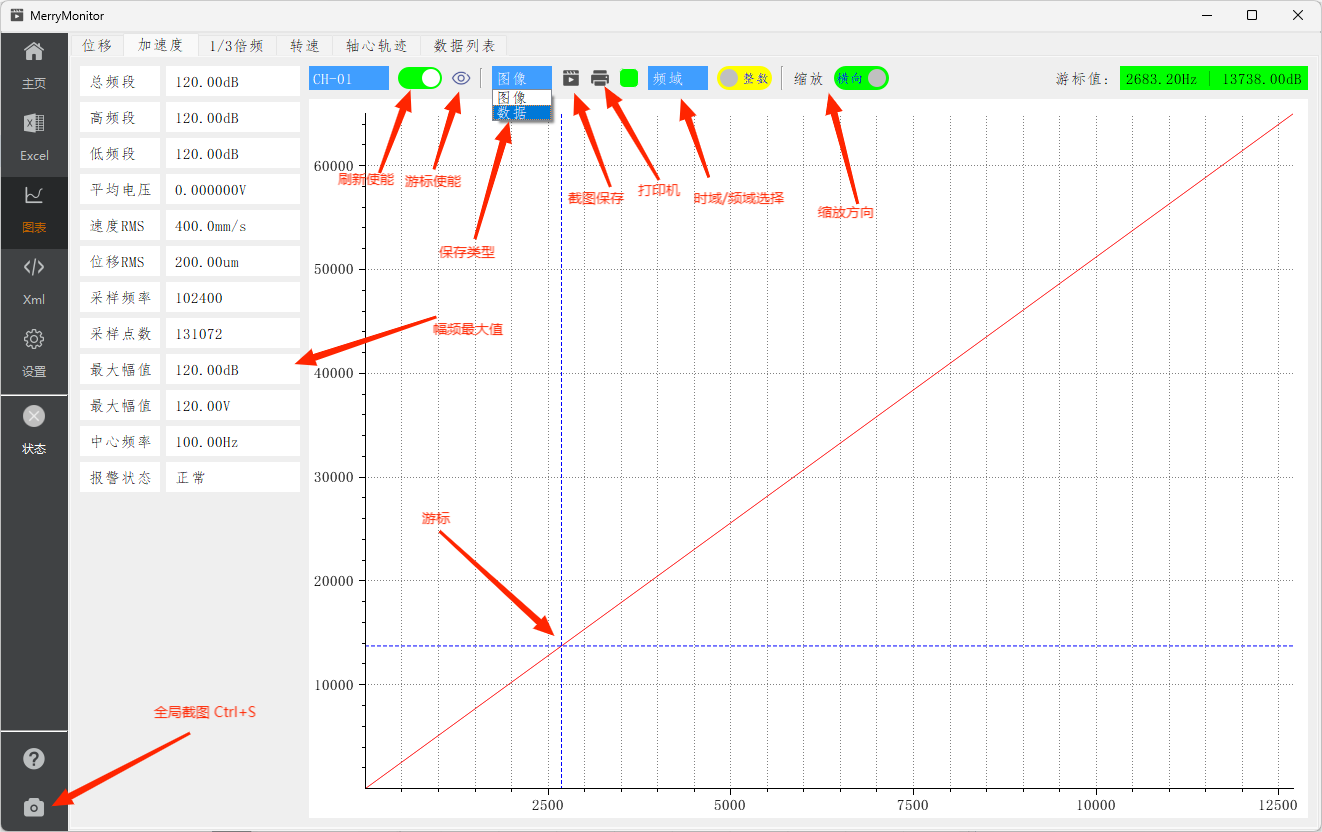
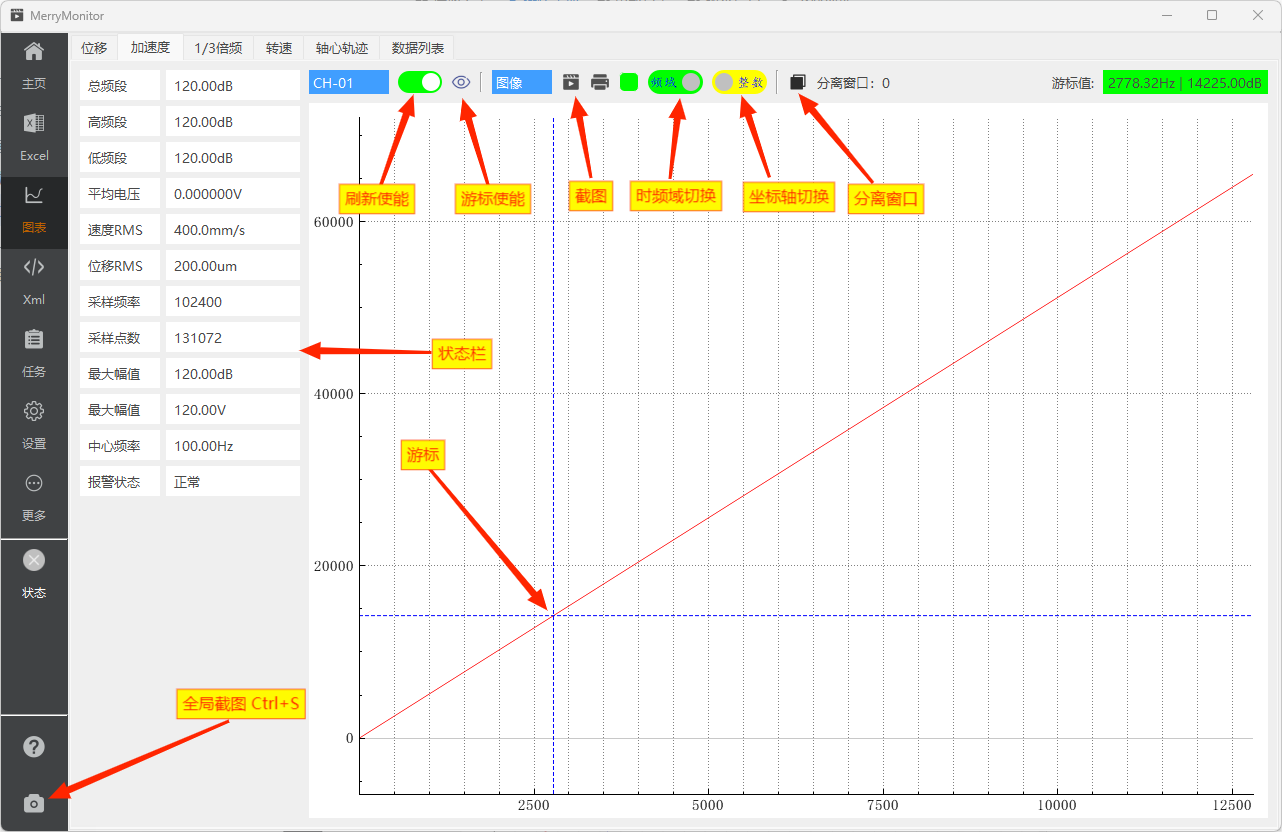
V2.0.0

diff --git a/src/guide/dataview.md b/src/guide/dataview.md
@@ -10,13 +10,23 @@ category:
 ::: info 图表展示
 图表功能的构建，基于[QCustomPlot](https://www.qcustomplot.com/)开源库的支持。
 
-图表功能囊括了项目中常见的几类图表。使用频率最高的位移、加速度图；使用频率较低的1/3倍频、轴心轨迹；
-以及计划将要加入的转速图功能。并且提供了特征值聚合后的数据列表。
+图表功能囊括了项目中常见的几类图表。使用频率最高的位移、加速度图；使用频率较低的1/3倍频、轴心轨迹、转速图功能。
+
+并且提供了特征值聚合后的数据列表。
 :::
 
 ## 页面标注
 
 图表功能提供了常用的辅助控件，基本涵盖了大多数的应用场景与测试任务。
+
+::: info 从 V1.0 升级到 V2.0 后的几点变化：
+
+1. 删除了缩放的横向/纵向选择按钮，不再对缩放范围进行限制。
+2. 增加了加速度分离成单独窗口的功能。
+3. 取消了图谱的打印机功能。
+4. 时域/频域切换，由下拉框换成了滑动开关；图谱切换更加平滑。
+5. 增加了双击图谱缩放复位功能。
+:::
 
 ![](./assets/chart.png)
 
@@ -24,32 +34,38 @@ category:
 
 一般来说，加速度通道的起始位置相比位移通道要更靠后。在查看加速度数据图谱时，应及时调整通道选择到 **你感兴趣的** 通道上。
 
+如果你要使用分离窗口功能，也应该先切换到你希望单独分离出去的通道。
+**请注意，分离出去的通道窗口，不可以重新选择通道。**
+
 ## 数据游标
 
 默认情况下，数据游标不可见。用户可通过点击游标使能，打开或关闭游标的显示。游标移动时，其坐标值实时更新在图表页右上角。
 
-## 缩放方向
+## 图谱缩放
 
-图表缩放同时支持滚轮缩放与拖动缩放，缩放方向默认为横向缩放，可通过开关修改为纵向缩放。
+图表缩放同时支持滚轮缩放与拖动缩放，X轴区域为横向缩放，Y轴区域纵向缩放，中间区域为双向缩放。缩放过程中，可以通过双击图谱，复位到最初的坐标范围。
+
 每次图表刷新网络数据时，都会重新计算纵向坐标轴的范围。如果你需要保持纵向缩放的范围，请提前关闭刷新使能。
-
-同时，横向缩放设定了最大缩放范围。因此，反向使用横向缩放，都能回归到最初的图像状态。
+后续视情况而定，可能会增加Y轴自适应功能的控制开关。
 
 ## 屏幕截图
 
-应用程序内置了截图功能。在测试过程中，常常需要保存图像状态，是一个高频的应用场景。
+应用程序内置了截图功能。测试过程中，常常需要保存图像与原始数据，是一个高频应用场景。
+
 因此，应用程序同时提供了保存图像截图与保存图像数据文本两种方式的交互。当需要查看当前图像的文本数据时，则将保存类型切换到数据即可。
 
 **此外，在侧边栏左下角额外提供了一个全局的截图按钮。该截图按钮支持 `Ctrl+S` 快捷键激活。**
 
 ## 幅频最大值
 
-幅频最大值，由应用程序读取当前X轴的左右范围。在X轴的左右范围中，从原始图像数据中获取。
+幅频最大值，由应用程序读取当前X轴的左右范围。在X轴的左右范围中，从原始数据中计算获取。
 
-例如：当X轴的范围缩放至35000-70000的范围时，则在网络更新后，应用程序将从35000-70000的数据范围中寻找最大值。
+例如：当X轴的范围缩放至2500-6000的范围时，则在图谱数据刷新后，应用程序将从2500-6000的数据范围中寻找最大值。
 范围之外的数据则不参与计算。
 
-所以说，左侧的幅频最大值表现的是当前加速度图像中，X轴范围内的最大值。
-这在某些需要查看一小段数据范围内的最大值时，是非常实用的。当然，也可以暂停刷新数据，通过游标的方向实现相同的目的。
+状态栏中的幅频最大值表现的是当前加速度图像中，X轴范围内的最大值。
+这在某些需要查看一小段数据范围内的最大值时，是非常实用的。当然，你也可以暂停刷新数据，通过滑动游标观察右上角的游标数据的方式实现相同的目的。
+
+注：幅频最值表现的是频域图谱的信息。
 
 ![](./assets/peak.png)

diff --git a/src/guide/xmlview.md b/src/guide/xmlview.md
@@ -1,5 +1,5 @@
 ---
-title: XML配置可视化
+title: XML配置
 icon: file
 order: 1
 date: 2023-07-09
@@ -8,22 +8,26 @@ category:
 ---
 
 ::: info 配置可视化
-长久以来，XML配置文件的修改都是围绕文本编辑器进行。这种方式不仅效率低，且出错率还高。非常不适合开发人员之外、不熟悉标签定义的其他人员使用。
+长久以来，测试人员修改XML配置文件只能通过文本编辑器。这种方式不仅效率低，且出错率还高。非常不适合开发人员之外、不熟悉标签定义的其他人员使用。
 
 因此，一个可视化的配置界面，不仅必要也非常重要。
 
-当前的配置界面，沿用了作者两年前完成的UI界面。而其中的UI操作逻辑与XML的解析转存的方式，则全部进行了重写。
-采用了一套更高效更通用的模型，替换了原来的后台操作逻辑。并将UI与后台进行了解耦，在其解析效率、稳定性得到提高的同时，也更容易支持后续的升级。
+V2.0 版本的XML配置页面，参考了JSON配置页面。（先有的Web版本的JSON配置页面）
+
+相比V1.0 版本，UI操作逻辑与XML的解析转存方式，按照Web版本的 MVVM 模式进行了重写。在保留原有的解析效率、稳定性的同时，通过数据的双向绑定大幅优化了内存消耗。
 :::
 
 ## 页面标注
 
-图表功能提供了丰富的辅助控件，基本涵盖了大多数的应用场景与测试任务。
+配置文件的加载方式，提供了本地文件加载与Http网络加载两种方式。
 
 ::: tabs
 
 @tab 通道配置
 ![](./assets/channel.png)
+
+@tab 其他配置
+![](./assets/other.png)
 
 @tab 说明文档
 ![](./assets/explain.png)
@@ -34,7 +38,9 @@ category:
 
 点击左侧通道按钮，中央区域的配置界面将切换到对应的通道内容。
 
-报警设置项中，七种不同的报警类型中只能选择其中一个。如果您需要全部关闭，可点击类型按钮上方的RST复位按钮。
+从说明文档中可以看到，报警类型的开关有七种不同的字段。V2.0版本，将这七种不同的合并为一个报警类型的下拉框。
+
+这意味着七种不同的报警类型中只能选择其中一个。如果需要全部关闭，可选择不报警。
 
 ::: warning
 下载XML文件前，你必须确保已经加载了一个 `settings.xml` 文件，应用程序需要使用模板文件以确保不会遗漏那些 **你正在使用，但又不需要可视化** 的标签。
@@ -47,13 +53,14 @@ category:
 有时候，我们需要对部分配置内容同时更新到多个不同的通道。
 
 例如：当我们有一个需要对通道1-16的灵敏度，修改为同一个值的场景。如果我们在通道配置页下进行修改，则需要打开1-16通道的配置内容，分别进行修改。
-这不仅步骤繁琐，且容易遗漏部分通道的修改。
+
+这不仅步骤繁琐，且在操作过程中容易遗漏部分通道的修改。
 
 同步模式就是在这种应用场景下推出的解决方案。
 
 ![](./assets/sync.png)
 
-容我使用刚才的栗子。在同步模式的情况下，修改灵敏度的步骤如下：
+继续使用刚才的栗子。在同步模式的情况下，修改灵敏度的步骤如下：
 
 ::: tip
 1. 打开配置项前的使能开关。(这里打开的是灵敏度的使能开关)

diff --git a/src/guide/excel.md b/src/guide/excel.md
@@ -10,10 +10,12 @@ tag:
 ---
 
 ::: info 自动采集
-测试表格是一组反应设备测试情况的所使用的excel表格。
+测试表格是一组反应设备测试情况所使用的excel表格集合。
 应用程序内置了 基础误差、线性误差、零点漂移、重复性误差 四类测试表格。
 
-自动采集功能。是一个借助应用程序的计算能力，减少测试过程中人工参与数据的判断与记录，并提供xlsx格式的excel模板导出数据，快速完成测试任务的一套流程。
+V2.0 版本新增了工艺信号的测试表格。
+
+自动采集功能。是一个借助应用程序的计算能力，代替人工参与测试过程中的数据判断与记录，并提供excel模板帮助导出数据，快速完成测试任务的一套流程。
 :::
 
 ## 页面标注
@@ -24,14 +26,14 @@ tag:
 
 ## 新建任务
 
-测试任务开始前，首先目标选择一个合适的测试任务，应用的默认测试任务为**基本误差**。
-若需要切换至其他任务请按以下步骤进行：
+测试任务开始前，首先选择一个合适的测试任务，应用的默认测试任务为**基本误差**。
+若需要切换到其他任务请按以下步骤进行：
 
 ::: info 操作步骤
 1. 保存当前已经完成的测试表格。（可跳过）
 2. 关闭当前测试，点击清除表格清空当前测试数据。
 3. **清空测试数据后，模板选择下拉框将使能**。这时可重新选择内置的测试模板。
-4. 点击加载数据可加载外部excel数据，或点击建立表格，建立一个空白表格。
+4. 点击建立表格，建立一个空白表格。或者通过点击加载数据，选择外部的excel数据。
 5. 表格初始化完成后，若需要重新选择模板，则从步骤1重新开始。
 6. 填写当前测试人员，调整测量误差。（可跳过）
 7. 点击开始测试。
@@ -41,7 +43,7 @@ tag:
 
 ## 测量误差
 
-自动采集过程中，由于任务之间存在不同的测试电压，应用在判断采集数据的外部电压时，需要提供一个允许的误差范围。
+自动采集过程中，由于任务之间存在不同的测试电压，应用程序在判断采集数据的外部电压时，需要用户提供一个允许的误差范围。
 
 例如：当外部8个信号通道同时接入了4.000V的电压，而应用程序收到的电压数据如下时，将拒绝本次数据的采集。
 
@@ -51,7 +53,7 @@ CH1   CH2   CH3   CH4   CH5   CH6   CH7   CH8
 ```
 
 由于 `CH7` 的电压与外部电压4.000V - 3.888V = 0.312V 大于设定的误差范围 `0.300`。
-因此，本次的电压数据应用程序将拒绝采纳。
+因此，本次的电压数据应用程序将拒绝作为表格数据采纳。
 
 当应用程序收到的电压数据如下时，情况则相反。
 
@@ -74,4 +76,5 @@ CH1   CH2   CH3   CH4   CH5   CH6   CH7   CH8
 
 测试完成后，需要导出测试表格的数据时，点击保存按钮选择存放路径即可。
 excel文件默认使用xlsx格式。下载excel文件时，应用默认带上内置的样式模板。
-如您不需要这些模版，可以在下载文件前，取消勾选 **使用模板** 选项。
+
+若你不需要这些模版，可以在下载文件前，取消勾选 **使用模板** 选项。

diff --git a/src/guide/monitor.md b/src/guide/monitor.md
@@ -22,17 +22,19 @@ category:
 
 ## 手动采集
 
-当你使用自动采集功能时，应用程序将接管 **测试电压、试验次数、数据采集** 这几个功能按钮。
+使用自动采集功能的过程中，应用程序将接管 **测试电压、试验次数、数据采集** 这几个功能按钮。
 
-当你希望自己手动控制数据采集工作时，应先取消自动采集功能的勾选。并同时由自己负责管理 **测试电压、试验次数** 的选择。
+当你希望通过手动点击采集按钮控制采集过程时，应先取消自动采集功能的勾选。并同时负责管理 **测试电压、试验次数** 的选择。
+
+请注意，测试电压表示你期待的标准电压，试验次数表示这是第几次试验。
 通常来说，外部输入电压是多少，测试电压就选择多少。
 
-此外有个注意点，测试电压、试验次数还会受到不同的[测试任务](./excel.md#页面标注)影响而出现不同的选项。
+另外，测试电压、试验次数还会受到不同的[测试任务](./excel.md#页面标注)影响而出现不同的选项。
 
 ## 提示信息
 
 尽管大多数情况下，自动采集能迅速地完成测试任务。
-但有时因为外界的一些干扰或者遇到一些硬件问题的时候，应用程序一直无法得到一个[有效的可接纳的测试数据值](./excel.md#测量误差)。
+但有时因为外界的一些干扰或者遇到了一些硬件问题时，应用程序可能会处于一直无法得到一个[有效的可接纳的测试数据值](./excel.md#测量误差)。
 
 这时，需要测试人员注意观察通道间出现异常的数据，及时处理问题，并且应用程序也会将计算过程中遇到异常的通道号标注在顶部的提示信息上。
 
@@ -42,3 +44,8 @@ category:
 
 这种情况下，你可以通过点击通道使能，弹出对话框。通过选中或取消对应的通道，改变应用程序需要关注的测试通道使能。
 通道的使能情况也将同步反应到数据展示框内 **右上角的星星图标** 上。
+
+## 工艺信号
+
+V2.0 版本的更新中，添加了工艺信号的数据采集与校准功能。
+现在，你可以通过点击侧边栏更多菜单，找到工艺信号的数据校准页。

diff --git a/src/guide/setting.md b/src/guide/setting.md
@@ -1,5 +1,5 @@
 ---
-title: 项目选择与网络
+title: 项目选择
 icon: file
 order: 1
 date: 2023-07-09
@@ -9,21 +9,21 @@ tag:
   - 功能配置
 ---
 
-::: info 项目选择
+::: info 项目前提
 随着时间的推移，不同的项目需求积累了众多的上位机版本。它们之间互相不通用，只对特定项目有效。
-作为一名以FPGA开发为主业，长期混迹Linux、前端娱乐圈的算法爱好者。终于忍不住重新拿起Qt，重写了一份全新的桌面程序。
+作者的主业是FPGA开发，平日里也是Linux、前端、算法等软件技术的爱好者。在写这款应用之前，已经快两年没碰过Qt开发。
 
-为什么不用Web方案？那当然是想的，但是性能实在是有点绷不住。
+为什么不选择Web方案？因为Web的性能支撑不住，所以才重新使用Qt。
 
 正因如此，才更希望能通过这一版桌面程序，解决混乱的测试流程。
 一个好的设计模式非常重要！在这个项目中，借鉴了前端框架的设计思想与一些算法技巧，完成了接口的统一抽象。
 
-**现在，这是一个可以兼容绝大多数以往项目的应用程序。**
+**现在，这是一个可以兼容绝大多数过往项目的桌面程序。**
 :::
 
 ## 页面标注
 
-连接设备网络前，请先选择合适的数据结构组与项目。同时注意中间的通道类型与属性，是否与当前设备情况保持一致。
+连接设备网络前，请先选择合适的数据结构组与项目。同时注意中间部分的通道类型与属性，是否与当前设备的情况保持一致。
 
 ![](./assets/setting.png)
 
@@ -60,6 +60,6 @@ tag:
 应用程序的日志系统，仅保留了网络部分的日志信息。以避免在长期运行的设备中，出现太多不关心的日志输出。
 日志内容主要集中在网络登录、连接、断开。重连等行为。
 
-**每当加速度数据包刷新时，将引起观察窗口标题的变化，以及默认开启的顶部进度条的刷新。**
+**每当加速度数据包刷新时，将引起窗口标题的变化，以及默认开启的顶部进度条的刷新。**
 
 你可以通过这两种方式观察数据包的刷新情况。
